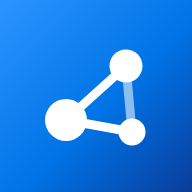
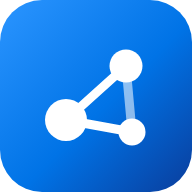
App-iconen met afgeronde hoeken (#7)
* App-iconen met afgeronde hoeken (192/512 transparant afgerond)

Claude-Session: https://claude.ai/code/session_017JsKHnx9ShG78S1vFGbi6N

* Manifest-iconversie ook in build.py

Claude-Session: https://claude.ai/code/session_017JsKHnx9ShG78S1vFGbi6N

---------

diff --git a/mkicons.js b/mkicons.js
@@ -1,3 +1,5 @@
+// iconen uit icon.svg. 180 (apple-touch-icon): vierkant, iOS rondt zelf af (transparante hoeken worden daar zwart).
+// 192/512 (manifest, o.a. Windows/Android): afgeronde hoeken met transparante achtergrond.
 const {chromium}=require('playwright');(async()=>{const b=await chromium.launch();const p=await b.newPage();const svg=require('fs').readFileSync(process.argv[2]+'/icon.svg','utf8');
-for(const s of [180,192,512]){await p.setViewportSize({width:s,height:s});await p.setContent(`<html><body style="margin:0;background:#0073e6">${svg.replace('<svg ','<svg width="'+s+'" height="'+s+'" ').replace('rx="14"','rx="0"')}</body></html>`);await p.screenshot({path:process.argv[2]+'/icon-'+s+'.png'});}
+for(const s of [180,192,512]){const vierkant=s===180;await p.setViewportSize({width:s,height:s});await p.setContent(`<html><body style="margin:0;background:${vierkant?'#0073e6':'transparent'}">${svg.replace('<svg ','<svg style="display:block" width="'+s+'" height="'+s+'" ').replace('rx="14"',vierkant?'rx="0"':'rx="14"')}</body></html>`);await p.screenshot({path:process.argv[2]+'/icon-'+s+'.png',omitBackground:!vierkant});}
 await b.close();})();

diff --git a/build.py b/build.py
@@ -14,5 +14,5 @@ for k, v in parts.items():
 assert '%%SUPABASE' not in js
 (out/'index.html').write_text(h)
 (out/'icon.svg').write_text((src/'logo.svg').read_text())  # logo: bron in src/logo.svg (ook als symbool i-logo in icons.svg)
-(out/'manifest.webmanifest').write_text('{"name":"CRM","short_name":"CRM","start_url":"./#overzicht","scope":"./","display":"standalone","background_color":"#fafaf9","theme_color":"#ffffff","icons":[{"src":"icon-192.png","sizes":"192x192","type":"image/png"},{"src":"icon-512.png","sizes":"512x512","type":"image/png"},{"src":"icon.svg","sizes":"any","type":"image/svg+xml"}]}\n')
+(out/'manifest.webmanifest').write_text('{"name":"CRM","short_name":"CRM","start_url":"./#overzicht","scope":"./","display":"standalone","background_color":"#fafaf9","theme_color":"#ffffff","icons":[{"src":"icon-192.png?v=2","sizes":"192x192","type":"image/png"},{"src":"icon-512.png?v=2","sizes":"512x512","type":"image/png"},{"src":"icon.svg","sizes":"any","type":"image/svg+xml"}]}\n')
 print('ok', len(h))
